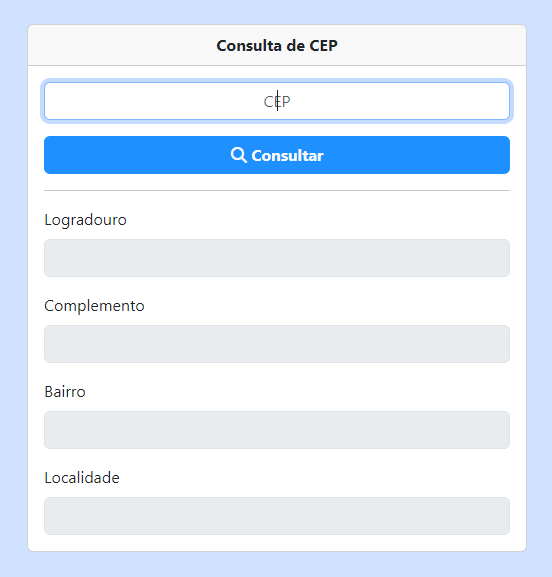
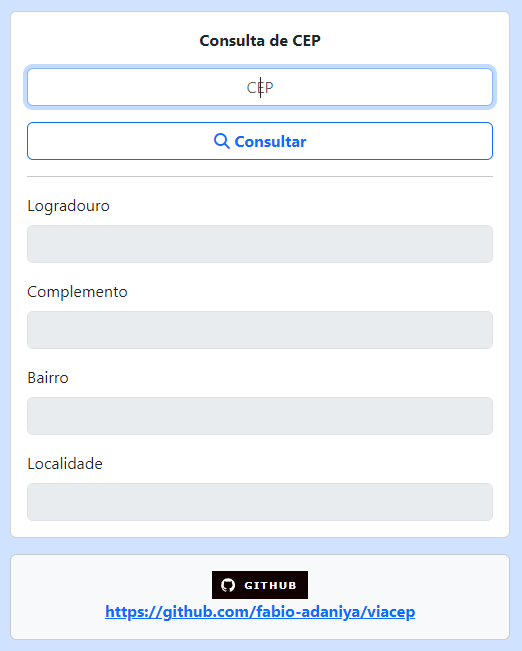
melhorias

Changed region(s): [[0.0, 0.0, 0.9808, 0.9983]]

diff --git a/index.html b/index.html
@@ -9,30 +9,44 @@
 </head>
 <body class="bg-primary-subtle">
 	<div class="d-flex justify-content-center vh-100 align-items-center">
-		<div class="card m-3" style="width: 500px">
-			<div class="card-header text-center fw-bold">
-				Consulta de CEP
+		<div>
+			<div class="card m-3" style="width: 500px">
+				<div class="text-center fw-bold mt-3">
+					Consulta de CEP
+				</div>
+				<div class="card-body">
+					<input type="text" id="campoConsultaCep" class="form-control mb-3 text-center" placeholder="CEP" maxlength="9" autofocus>
+					<button class="btn btn-outline-primary gap-2 w-100 fw-bold" onclick="consultar()">
+						<i class="fa-solid fa-magnifying-glass mt-1"></i> Consultar
+					</button>
+					<hr>
+					<div class="mb-3">
+						<label class="form-label">Logradouro</label>
+						<input type="text" id="campoLogradouro" class="form-control" disabled/>
+					</div>
+					<div class="mb-3">
+						<label class="form-label">Complemento</label>
+						<input type="text" id="campoComplemento" class="form-control" disabled/>
+					</div>
+					<div class="mb-3">
+						<label class="form-label">Bairro</label>
+						<input type="text" id="campoBairro" class="form-control" disabled/>
+					</div>
+					<label class="form-label">Localidade</label>
+					<input type="text" id="campoLocalidade" class="form-control" disabled/>
+				</div>
 			</div>
-			<div class="card-body">
-				<input type="text" id="campoConsultaCep" class="form-control mb-3 text-center" placeholder="CEP" maxlength="9" autofocus>
-				<button class="btn gap-2 w-100 text-light fw-bold" onclick="consultar()" style="background-color: #1E90FF;">
-					<i class="fa-solid fa-magnifying-glass mt-1"></i> Consultar
-				</button>
-				<hr>
-				<div class="mb-3">
-					<label class="form-label">Logradouro</label>
-					<input type="text" id="campoLogradouro" class="form-control" disabled/>
+			<div class="card m-3 bg-light">
+				<div class="card-body">
+					<div class="d-flex justify-content-center">
+						<a href="https://github.com/fabio-adaniya/viacep">
+							<div class="d-flex justify-content-center">
+								<img src="https://img.shields.io/badge/GitHub-100000?style=for-the-badge&logo=github&logoColor=white">
+							</div>
+							<div class="fw-bold">https://github.com/fabio-adaniya/viacep</div>
+						</a>
+					</div>
 				</div>
-				<div class="mb-3">
-					<label class="form-label">Complemento</label>
-					<input type="text" id="campoComplemento" class="form-control" disabled/>
-				</div>
-				<div class="mb-3">
-					<label class="form-label">Bairro</label>
-					<input type="text" id="campoBairro" class="form-control" disabled/>
-				</div>
-				<label class="form-label">Localidade</label>
-				<input type="text" id="campoLocalidade" class="form-control" disabled/>
 			</div>
 		</div>
 	</div>
